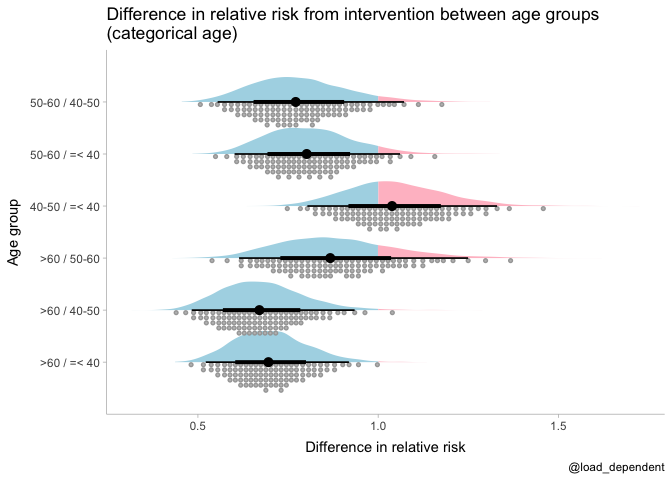
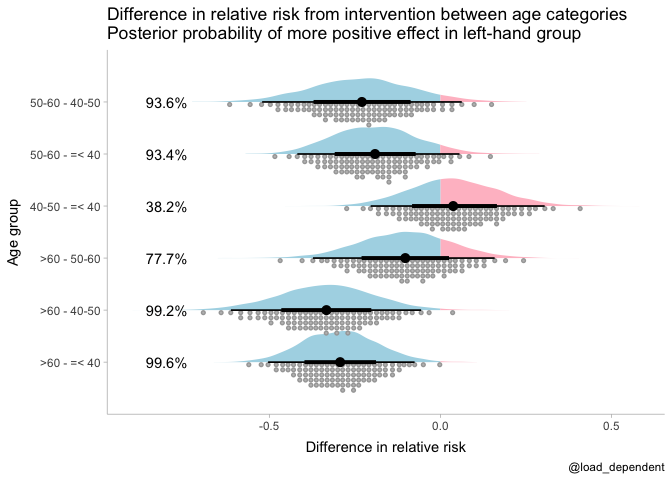
fixed comparisons

diff --git a/README.md b/README.md
@@ -30,71 +30,8 @@ Frequentist test of interaction
 
 ``` r
 # treatment effect only
-fmod1 <- glm(cbind(events,n-events)~group,family = binomial,data = df)
-summary(fmod1)
-```
-
-    ## 
-    ## Call:
-    ## glm(formula = cbind(events, n - events) ~ group, family = binomial, 
-    ##     data = df)
-    ## 
-    ## Deviance Residuals: 
-    ##     Min       1Q   Median       3Q      Max  
-    ## -5.7836  -0.5333   2.9124   4.1291   4.7674  
-    ## 
-    ## Coefficients:
-    ##                   Estimate Std. Error  z value Pr(>|z|)    
-    ## (Intercept)       -4.92270    0.03434 -143.337   <2e-16 ***
-    ## groupintervention -0.10687    0.04990   -2.142   0.0322 *  
-    ## ---
-    ## Signif. codes:  0 '***' 0.001 '**' 0.01 '*' 0.05 '.' 0.1 ' ' 1
-    ## 
-    ## (Dispersion parameter for binomial family taken to be 1)
-    ## 
-    ##     Null deviance: 129.05  on 7  degrees of freedom
-    ## Residual deviance: 124.46  on 6  degrees of freedom
-    ## AIC: 184.43
-    ## 
-    ## Number of Fisher Scoring iterations: 4
-
-``` r
-# treatment and age effect, but no interaction
-fmod2 <- glm(cbind(events,n-events)~group+age,family = binomial,data = df)
-summary(fmod2)
-```
-
-    ## 
-    ## Call:
-    ## glm(formula = cbind(events, n - events) ~ group + age, family = binomial, 
-    ##     data = df)
-    ## 
-    ## Deviance Residuals: 
-    ##       1        2        3        4        5        6        7        8  
-    ## -0.8279   0.8608  -0.7224   0.7474   0.7967  -0.8612   1.5319  -1.6950  
-    ## 
-    ## Coefficients:
-    ##                   Estimate Std. Error  z value Pr(>|z|)    
-    ## (Intercept)       -5.15631    0.04252 -121.272  < 2e-16 ***
-    ## groupintervention -0.10693    0.04991   -2.142   0.0322 *  
-    ## age40-50           0.56434    0.06475    8.716  < 2e-16 ***
-    ## age50-60           0.56722    0.07484    7.579 3.48e-14 ***
-    ## age>60             0.46236    0.07360    6.282 3.35e-10 ***
-    ## ---
-    ## Signif. codes:  0 '***' 0.001 '**' 0.01 '*' 0.05 '.' 0.1 ' ' 1
-    ## 
-    ## (Dispersion parameter for binomial family taken to be 1)
-    ## 
-    ##     Null deviance: 129.0543  on 7  degrees of freedom
-    ## Residual deviance:   9.1027  on 3  degrees of freedom
-    ## AIC: 75.074
-    ## 
-    ## Number of Fisher Scoring iterations: 4
-
-``` r
-# treatment, age and interaction effect
-fmod3 <- glm(cbind(events,n-events)~group*age,family = binomial,data = df)
-summary(fmod3)
+freq_mod <- glm(cbind(events,n-events)~group*age,family = binomial,data = df)
+summary(freq_mod)
 ```
 
     ## 
@@ -126,23 +63,28 @@ summary(fmod3)
     ## 
     ## Number of Fisher Scoring iterations: 3
 
-Model that includes interaction term is a significantly better fit to
-the data than the base model, but a smaller incremental improvement than
-including age specific intercepts
+Test for interaction using type 2 anova, resulting in a significant
+interaction between intervention (group) and age at a nominal alpha
+level = 0.05
 
 ``` r
-anova(fmod1,fmod2,fmod3,test = "LRT")
+car::Anova(freq_mod,type=2)
 ```
 
-    ## Analysis of Deviance Table
+    ## Registered S3 methods overwritten by 'car':
+    ##   method                          from
+    ##   influence.merMod                lme4
+    ##   cooks.distance.influence.merMod lme4
+    ##   dfbeta.influence.merMod         lme4
+    ##   dfbetas.influence.merMod        lme4
+
+    ## Analysis of Deviance Table (Type II tests)
     ## 
-    ## Model 1: cbind(events, n - events) ~ group
-    ## Model 2: cbind(events, n - events) ~ group + age
-    ## Model 3: cbind(events, n - events) ~ group * age
-    ##   Resid. Df Resid. Dev Df Deviance Pr(>Chi)    
-    ## 1         6    124.461                         
-    ## 2         3      9.103  3  115.358  < 2e-16 ***
-    ## 3         0      0.000  3    9.103  0.02796 *  
+    ## Response: cbind(events, n - events)
+    ##           LR Chisq Df Pr(>Chisq)    
+    ## group        4.596  1    0.03205 *  
+    ## age        115.358  3    < 2e-16 ***
+    ## group:age    9.103  3    0.02796 *  
     ## ---
     ## Signif. codes:  0 '***' 0.001 '**' 0.01 '*' 0.05 '.' 0.1 ' ' 1
 
@@ -151,9 +93,27 @@ anova(fmod1,fmod2,fmod3,test = "LRT")
 Priors:
 
 ``` r
-prior_base <- prior(normal(0,1),class="b")
+prior_base <- prior(normal(0,1),class="b") # prior for base and categorical age effect and interaction
+prior_base %>% 
+  tibble() %>% 
+  parse_dist(prior) %>% 
+  ggplot(aes(y=prior,dist=.dist,args=.args,fill=after_stat(x>0)))+
+  stat_dist_halfeye()+
+  theme_tidybayes()+
+  scale_x_continuous(name="Log-odds (logit) scale")+
+  scale_fill_manual(values=c("lightblue","pink"))+
+  labs(title = "Prior distribution")+
+  theme(legend.position = "none",axis.title.y=element_blank(),
+        axis.text.y=element_blank(),
+        axis.ticks.y=element_blank())
+```
+
+![](README_files/figure-gfm/priors-1.png)<!-- -->
+
+``` r
 prior_mo <- prior(normal(0,1),class="b")+
-            prior(dirichlet(1),class="simo",coef="moage1")
+            prior(dirichlet(1),class="simo",coef="moage1") # prior for monotonic 
+
 prior_mo_interaction <-prior(normal(0,1),class="b")+
             prior(dirichlet(1),class="simo",coef="moage1")+
             prior(dirichlet(1), class= "simo", coef="moage:groupintervention1")
@@ -369,20 +329,6 @@ plot(mod3_b)
 ![](README_files/figure-gfm/fit_3b-1.png)<!-- -->
 
 ``` r
-get_variables(mod3_b)
-```
-
-    ##  [1] "b_Intercept"                      "b_groupintervention"             
-    ##  [3] "bsp_moage"                        "bsp_moage:groupintervention"     
-    ##  [5] "Intercept"                        "simo_moage1[1]"                  
-    ##  [7] "simo_moage1[2]"                   "simo_moage1[3]"                  
-    ##  [9] "simo_moage:groupintervention1[1]" "simo_moage:groupintervention1[2]"
-    ## [11] "simo_moage:groupintervention1[3]" "lp__"                            
-    ## [13] "accept_stat__"                    "stepsize__"                      
-    ## [15] "treedepth__"                      "n_leapfrog__"                    
-    ## [17] "divergent__"                      "energy__"
-
-``` r
 pairs(mod3_b)
 ```
 
@@ -527,7 +473,7 @@ df %>%
   scale_x_continuous(name="Relative risk")+
   theme_tidybayes()+
   theme(legend.position = "none")+
-  labs(title = "Model 1 b: age specific infection risk only ",
+  labs(title = "Model 1 b: Intervention effect given (categorical) age specific infection risk\nWithout interaction ",
 caption = "@load_dependent")
 ```
 
@@ -546,11 +492,46 @@ df %>%
   scale_x_continuous(name="Relative risk")+
   theme_tidybayes()+
   theme(legend.position = "none")+
-  labs(title = "Model 2: age specific infection risk \nand interaction with intervention ",
+  labs(title = "Model 2: Main effect from intervention, (categorical) age specific infection risk \nand interaction between them",
        caption = "@load_dependent")
 ```
 
-![](README_files/figure-gfm/plot_interaction_2a-1.png)<!-- -->
+![](README_files/figure-gfm/plot_interaction_2a-1.png)<!-- --> Pairwise
+difference in effect from model 2
+
+``` r
+mod2_a_diff <- df %>% 
+  modelr::data_grid(age,group,n=1) %>% 
+  add_linpred_draws(mod2_a,scale="response") %>% 
+  compare_levels(.value,by = group,fun=`/`) %>%
+  compare_levels(.value,by=age,comparison="pairwise") %>% 
+  summarise(post=scales::percent( mean(.value<0),accuracy = .1)) %>% 
+  ungroup() %>% 
+  select(-c(n,group))
+```
+
+    ## `summarise()` has grouped output by 'age', 'group'. You can override using the `.groups` argument.
+
+``` r
+df %>% 
+  modelr::data_grid(age,group,n=1) %>% 
+  add_linpred_draws(mod2_a,scale="response") %>% 
+  compare_levels(.value,by = group,fun = `/`) %>%
+  compare_levels(.value,by = age,comparison="pairwise") %>% 
+  ggplot(aes(x=.value,y=age,fill=after_stat(x>0)))+ 
+  stat_slab(position="dodge",scale=0.6)+
+  stat_dotsinterval(side="bottom", quantiles=100,position ="dodge",scale=0.6,fill="grey")+
+  geom_text(aes(y=age,label=post,x=-0.8),data = mod2_a_diff,inherit.aes = FALSE)+
+  scale_fill_manual(values=c("lightblue","pink"))+
+  scale_y_discrete(name = "Age group")+
+  scale_x_continuous(name="Difference in relative risk")+
+  theme_tidybayes()+
+  theme(legend.position = "none")+
+  labs(title = "Difference in relative risk from intervention between age categories\nPosterior probability of more positive effect in left-hand group",
+       caption = "@load_dependent")
+```
+
+![](README_files/figure-gfm/difference_categorical-1.png)<!-- -->
 
 ``` r
 df %>% 
@@ -588,74 +569,45 @@ df %>%
        caption = "@load_dependent")
 ```
 
-![](README_files/figure-gfm/plot_interaction_2b-1.png)<!-- -->
+![](README_files/figure-gfm/plot_interaction_3b-1.png)<!-- -->
 
-Pairwise difference in effect from model 2
+Pairwise difference in effect from model 3 b, the modelled monotonic
+interaction assumes higher effect with higher age, hence large
+posteroior probability of difference between age groups
 
 ``` r
-df %>% 
+mod3_b_diff <- df %>% 
   modelr::data_grid(age,group,n=1) %>% 
-  add_linpred_draws(mod2_a,scale="response") %>% 
-  compare_levels(.value,by = group,fun = `/`) %>%
-  compare_levels(.value,by = age,comparison="pairwise",fun = `/`) %>% 
-  ggplot(aes(x=.value,y=age,fill=after_stat(x>1)))+ 
-  stat_slab(position="dodge",scale=0.6)+
-  stat_dotsinterval(side="bottom", quantiles=100,position ="dodge",scale=0.6,fill="grey")+
-  scale_fill_manual(values=c("lightblue","pink"))+
-  scale_y_discrete(name = "Age group")+
-  scale_x_continuous(name="Difference in relative risk")+
-  theme_tidybayes()+
-  theme(legend.position = "none")+
-  labs(title = "Difference in relative risk from intervention between age groups\n(categorical age)",
-       caption = "@load_dependent")
+  add_linpred_draws(mod3_b,scale="response") %>% 
+  compare_levels(.value,by = group,fun=`/`) %>%
+  compare_levels(.value,by=age,comparison="pairwise") %>% 
+  summarise(post=scales::percent( mean(.value<0),accuracy = .1)) %>% 
+  ungroup() %>% 
+  select(-c(n,group))
 ```
 
-![](README_files/figure-gfm/difference_categorical-1.png)<!-- -->
-Pairwise difference in effect from model 3 b
+    ## `summarise()` has grouped output by 'age', 'group'. You can override using the `.groups` argument.
 
 ``` r
 df %>% 
   modelr::data_grid(age,group,n=1) %>% 
   add_linpred_draws(mod3_b,scale="response") %>% 
   compare_levels(.value,by = group,fun = `/`) %>%
-  compare_levels(.value,by = age,comparison="pairwise",fun = `/`) %>% 
+  compare_levels(.value,by = age,comparison="pairwise") %>% 
   ggplot(aes(x=.value,y=age,fill=after_stat(x>1)))+ 
   stat_slab(position="dodge",scale=0.6)+
   stat_dotsinterval(side="bottom", quantiles=100,position ="dodge",scale=0.6,fill="grey")+
+  geom_text(aes(y=age,label=post,x=-0.6),data = mod3_b_diff,inherit.aes = FALSE)+
   scale_fill_manual(values=c("lightblue","pink"))+
   scale_y_discrete(name = "Age group")+
   scale_x_continuous(name="Difference in relative risk")+
   theme_tidybayes()+
   theme(legend.position = "none")+
-  labs(title = "Difference in relative risk from intervention between age groups\n(monotonic age)",
+  labs(title = "Difference in relative risk from intervention between age groups\ngiven monontonic effect\nPosterior probability of more positive effect in left-hand group",
        caption = "@load_dependent")
 ```
 
 ![](README_files/figure-gfm/difference_monotonic-1.png)<!-- -->
-Posterior probability of difference according to model 2 a
-
-``` r
-df %>% 
-  modelr::data_grid(age,group,n=1) %>% 
-  add_linpred_draws(mod2_a,scale="response") %>% 
-  compare_levels(.value,by = group,fun=`/`) %>%
-  compare_levels(.value,by=age,comparison="pairwise") %>% 
-  summarise(`Posterior probability of difference in effect`=mean(.value<0)) %>% 
-  ungroup() %>% 
-  select(-c(group,n)) %>% 
-  knitr::kable()
-```
-
-    ## `summarise()` has grouped output by 'age', 'group'. You can override using the `.groups` argument.
-
-| age               | Posterior probability of difference in effect |
-|:------------------|----------------------------------------------:|
-| &gt;60 - =&lt; 40 |                                       0.99575 |
-| &gt;60 - 40-50    |                                       0.99150 |
-| &gt;60 - 50-60    |                                       0.77675 |
-| 40-50 - =&lt; 40  |                                       0.38175 |
-| 50-60 - =&lt; 40  |                                       0.93450 |
-| 50-60 - 40-50     |                                       0.93600 |
 
 ``` r
 df %>% 
